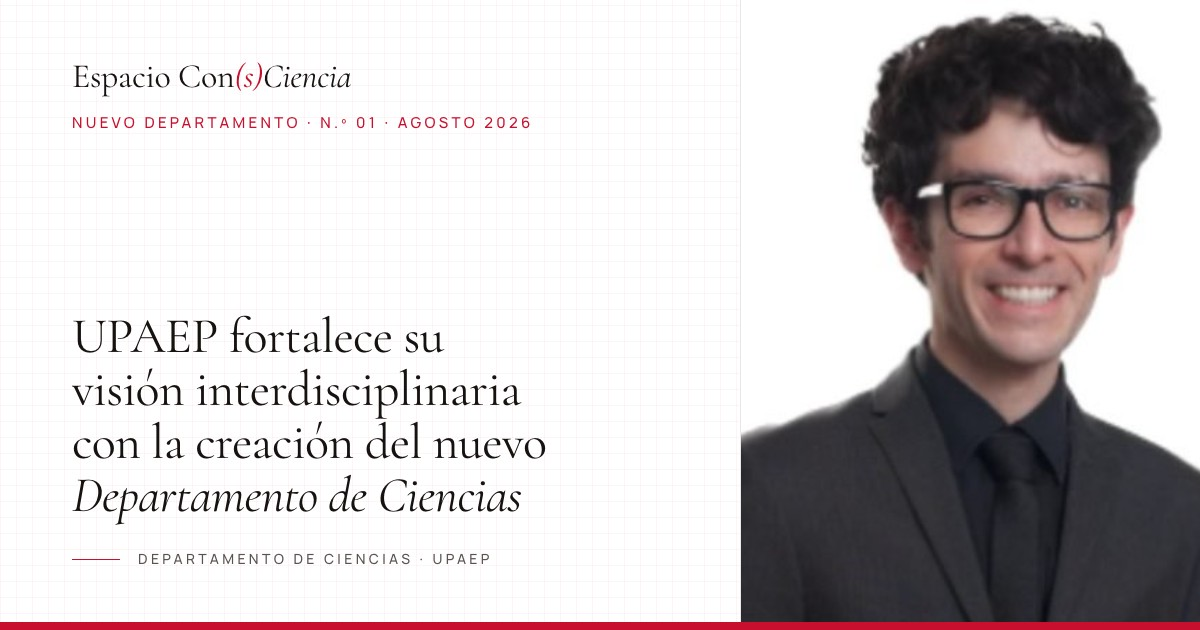
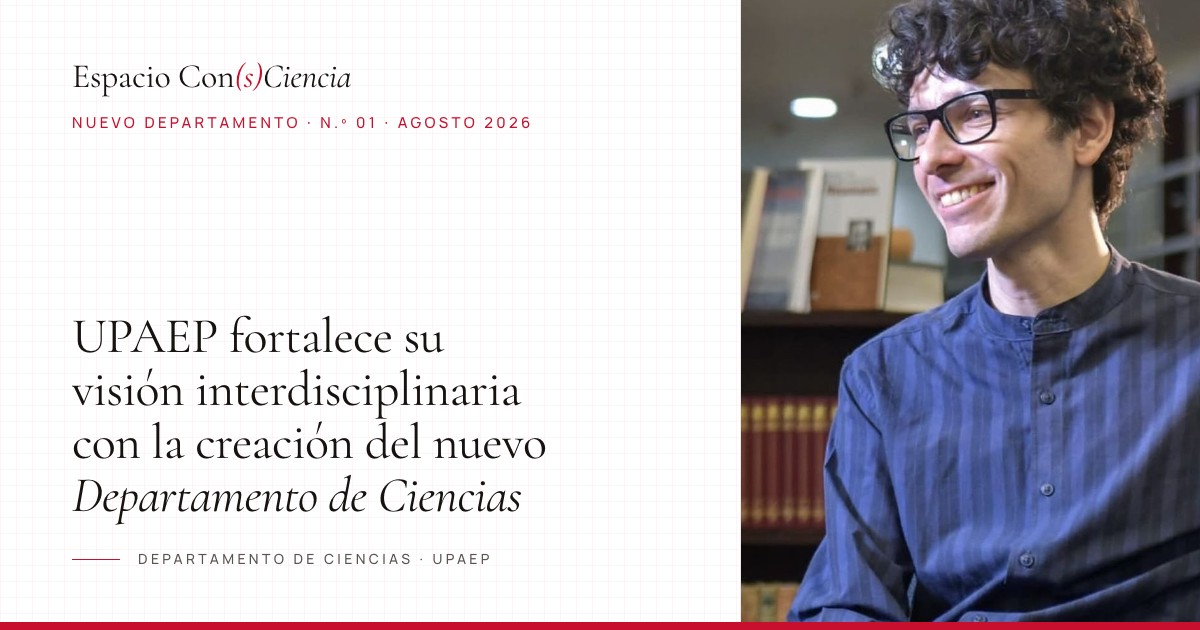
Quita el indicador «Desliza» y actualiza la foto del Dr. Gibaja Romero

diff --git a/estilos.css b/estilos.css
@@ -130,24 +130,6 @@ body {
 .cta--ghost::before { background: var(--rojo); }
 .cta--ghost:hover { color: #fff; border-color: var(--rojo); }
 
-/* ---------- Indicador de scroll ---------- */
-.desliza {
-  position: absolute; left: 50%; bottom: max(28px, env(safe-area-inset-bottom, 0px)); z-index: 1;
-  translate: -50% 0; display: grid; justify-items: center; gap: 10px;
-  font: 500 10px/1 var(--f-body); letter-spacing: .3em; text-transform: uppercase; padding-left: .3em;
-  color: var(--ink-2); text-decoration: none;
-  opacity: 0; animation: aparece-suave 1.2s var(--ease) calc(var(--t-hero) + 1s) forwards;
-  transition: color .4s var(--ease);
-}
-.desliza:hover { color: var(--rojo); }
-.desliza i { width: 1px; height: 36px; background: #E2DCDA; position: relative; overflow: hidden; }
-.desliza i::after {
-  content: ""; position: absolute; left: 0; top: 0; width: 1px; height: 40%; background: var(--rojo);
-  animation: gota 2.2s var(--telon) infinite;
-}
-@keyframes gota { from { transform: translateY(-100%); } to { transform: translateY(260%); } }
-@keyframes aparece-suave { to { opacity: 1; } }
-
 /* Flecha de "leer": un solo icono, pintado con el color del texto */
 .flecha {
   display: inline-block; flex: none; width: 16px; height: 10px; background: currentColor;
@@ -312,8 +294,6 @@ body {
 @media (prefers-reduced-motion: reduce) {
   .intro { display: none; }
   .grafica { animation: none; opacity: 1; }
-  .desliza { animation: none; opacity: 1; }
-  .desliza i::after { animation: none; }
   .js .al-scroll { opacity: 1; transform: none; filter: none; transition: none; }
   .name, .desc, .ctas, .entra { animation: none; opacity: 1; transform: none; filter: none; }
 }

diff --git a/index.html b/index.html
@@ -55,7 +55,6 @@
       <a class="cta cta--ghost" href="#archivo">Números anteriores</a>
     </nav>
   </div>
-  <a class="desliza" href="#numero" aria-label="Ir al primer artículo">Desliza<i></i></a>
 </header>
 
 <main>
